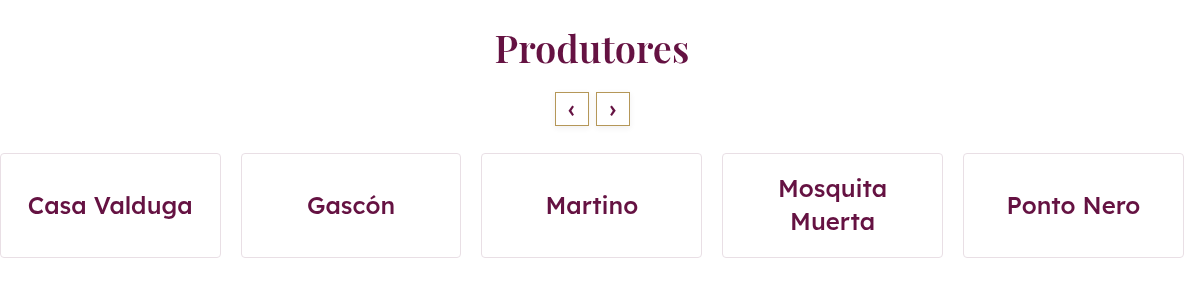
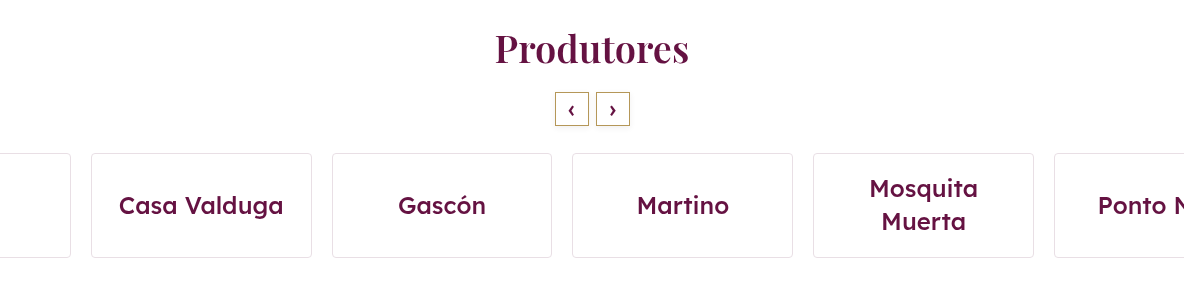
Preserve short mouse drags without snapping back

diff --git a/assets/videira-store.js b/assets/videira-store.js
@@ -114,8 +114,8 @@ matchMedia('(min-width:1024px)').addEventListener('change',event=>{if(!event.mat
    if(row.dataset.dragReady)return;row.dataset.dragReady='true';row.querySelectorAll('a,img').forEach(el=>el.draggable=false);
    let down=null,dragging=false,ignoreClickUntil=0,snap='',behavior='';
    const refresh=()=>row.dataset.canDrag=String(row.scrollWidth>row.clientWidth+2);new ResizeObserver(refresh).observe(row);refresh();
-   const finish=()=>{if(!down)return;const id=down.id;down=null;if(!dragging)return;dragging=false;ignoreClickUntil=Date.now()+300;row.classList.remove('vm-is-dragging');row.style.scrollSnapType=snap;row.style.scrollBehavior=behavior;try{if(row.hasPointerCapture(id))row.releasePointerCapture(id);}catch{}};
-   row.addEventListener('pointerdown',event=>{ignoreClickUntil=0;if(event.pointerType!=='mouse'||event.button!==0||row.scrollWidth<=row.clientWidth+2||event.target.closest('button,input,select,textarea,summary,[contenteditable]'))return;down={id:event.pointerId,x:event.clientX,y:event.clientY,left:row.scrollLeft};});
+   const finish=()=>{if(!down)return;const id=down.id;down=null;if(!dragging)return;dragging=false;ignoreClickUntil=Date.now()+300;row.classList.remove('vm-is-dragging');row.classList.add('vm-mouse-scrolled');row.style.scrollSnapType=snap;row.style.scrollBehavior=behavior;try{if(row.hasPointerCapture(id))row.releasePointerCapture(id);}catch{}};
+   row.addEventListener('pointerdown',event=>{ignoreClickUntil=0;if(event.pointerType==='touch')row.classList.remove('vm-mouse-scrolled');if(event.pointerType!=='mouse'||event.button!==0||row.scrollWidth<=row.clientWidth+2||event.target.closest('button,input,select,textarea,summary,[contenteditable]'))return;down={id:event.pointerId,x:event.clientX,y:event.clientY,left:row.scrollLeft};});
    row.addEventListener('pointermove',event=>{if(!down||event.pointerId!==down.id)return;const dx=event.clientX-down.x,dy=event.clientY-down.y;if(!dragging){if(Math.abs(dx)<7||Math.abs(dx)<=Math.abs(dy))return;dragging=true;snap=row.style.scrollSnapType;behavior=row.style.scrollBehavior;row.style.scrollSnapType='none';row.style.scrollBehavior='auto';row.classList.add('vm-is-dragging');row.setPointerCapture(event.pointerId);}event.preventDefault();row.scrollLeft=down.left-dx;});
    row.addEventListener('pointerup',finish);row.addEventListener('pointercancel',finish);row.addEventListener('lostpointercapture',finish);row.addEventListener('pointerleave',()=>{if(!dragging)down=null;});
    row.addEventListener('click',event=>{if(event.detail>0&&Date.now()<ignoreClickUntil){event.preventDefault();event.stopPropagation();}},true);

diff --git a/assets/videira-white.css b/assets/videira-white.css
@@ -84,3 +84,4 @@ html:has(body.storefront.vm-store){background:#fff!important}.storefront.vm-stor
 .storefront.vm-store .vm-inline-controls button,.storefront.vm-store [data-carousel-step]{border:1px solid #b59758!important;background:#fff!important;color:#651242!important;opacity:1!important;font-size:23px!important;font-weight:500;line-height:1;box-shadow:0 2px 6px #36242f12}.storefront.vm-store .vm-inline-controls button:disabled,.storefront.vm-store [data-carousel-step]:disabled{opacity:.45!important;cursor:default}.storefront.vm-store .vm-inline-controls button:hover:not(:disabled),.storefront.vm-store [data-carousel-step]:hover:not(:disabled){background:#651242!important;border-color:#651242!important;color:#fff!important}.storefront.vm-store .vm-brand-track{scrollbar-width:none!important;-ms-overflow-style:none;padding-bottom:0!important}.storefront.vm-store .vm-brand-track::-webkit-scrollbar{display:none;width:0;height:0}.storefront.vm-store img{-webkit-user-drag:none}.storefront.vm-store [data-can-drag=true]{cursor:grab}.storefront.vm-store .vm-is-dragging,.storefront.vm-store .vm-is-dragging *{cursor:grabbing!important;user-select:none!important;-webkit-user-select:none!important}.storefront.vm-store .vm-brand-track .vm-producer-tile:not(.vm-producer-has-logo){min-height:105px}.storefront.vm-store .vm-brand-track .vm-producer-has-logo img{height:var(--producer-logo-height,56px)!important;max-height:var(--producer-logo-height,56px)!important;width:auto!important;max-width:90%;object-fit:contain}.storefront.vm-store .vm-custom-flag{width:64px;height:44px;object-fit:contain;border-radius:4px}.storefront.vm-store .vm-pairings-track .vm-custom-food-photo img{display:block;width:100%;height:100%;margin:0;object-fit:contain;max-width:100%}
 @media(min-width:1024px){.storefront.vm-store .vm-inline-controls button,.storefront.vm-store [data-carousel-step]{width:34px;height:34px;min-width:34px}.storefront.vm-store .vm-shelf-prev{left:-12px}.storefront.vm-store .vm-shelf-next{right:-12px}}
 .storefront.vm-store .vm-brand-track .vm-producer-tile:not(.vm-producer-has-logo)>span{font-size:24px!important}@media(max-width:760px){.storefront.vm-store .vm-brand-track .vm-producer-tile:not(.vm-producer-has-logo){min-height:100px}.storefront.vm-store .vm-brand-track .vm-producer-tile:not(.vm-producer-has-logo)>span{font-size:22px!important}}
+.storefront.vm-store .vm-mouse-scrolled{scroll-snap-type:none!important}
